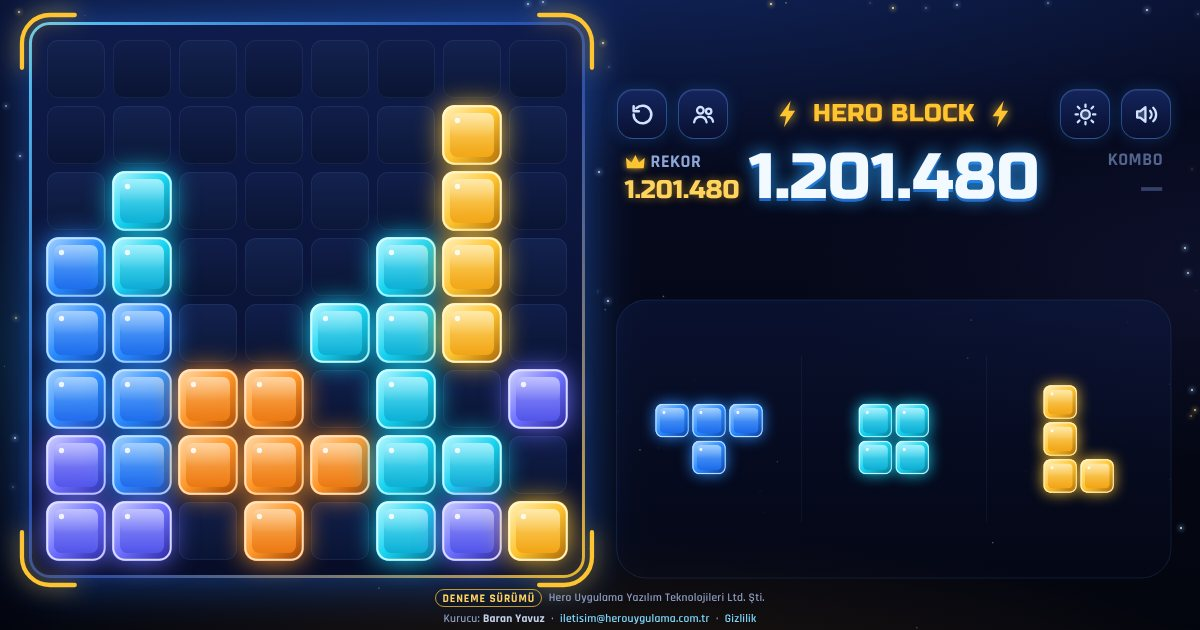
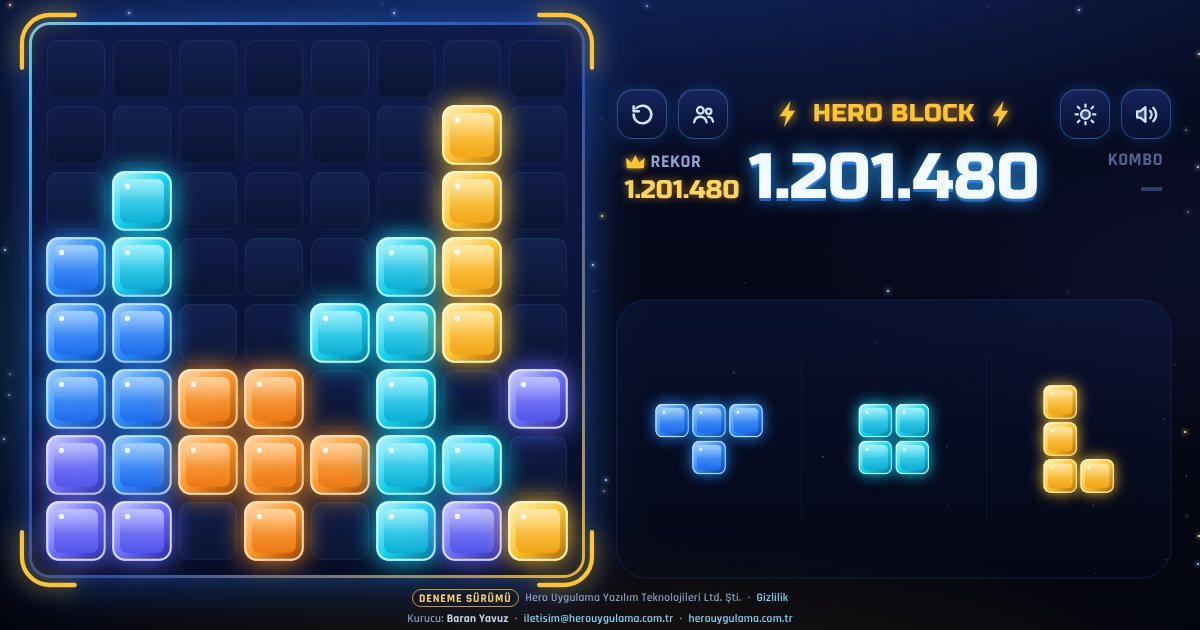
Şirket web sitesi bağlantısı: herouygulama.com.tr
E-postanın yanına herouygulama.com.tr bağlantısı eklendi (altlık, başlangıç
ve bitiş kartları, JavaScript'siz not, gizlilik politikası, README). Bağlantı
yeni sekmede açılır, oyun yerinde kalır. Altlıkta Gizlilik üst satıra taşındı;
satır sığmazsa (çok dar ekran ya da yazı tipi yüklenmeden) yazı orantılı küçülür.

Claude-Session: https://claude.ai/code/session_01PF9ZqAUkcrr7JnyAkv9ZQT

Changed region(s): [[0.3392, 0.9349, 0.6475, 0.9952], [0.9867, 0.6333, 1.0, 0.6635], [0.9867, 0.2413, 1.0, 0.2714]]

diff --git a/index.html b/index.html
@@ -20,7 +20,7 @@
 <meta property="og:image:height" content="630">
 <meta property="og:locale" content="tr_TR">
 <meta name="twitter:card" content="summary_large_image">
-<meta name="bk-build" content="fa5288e1e9">
+<meta name="bk-build" content="a99a8f48b3">
 <meta name="theme-color" content="#050817">
 <meta name="author" content="Baran Yavuz, Hero Uygulama Yazılım Teknolojileri Limited Şirketi">
 <meta name="color-scheme" content="dark">
@@ -656,7 +656,7 @@
         <li>Oyunu bağlantısından aç: <a href="https://herophysio.github.io/blok-kahramani/">https://herophysio.github.io/blok-kahramani/</a></li>
         <li>Bilgisayardaysan bu dosyayı Chrome, Safari ya da Edge ile aç.</li>
       </ol>
-      <p class="nojs-foot">Deneme sürümü · Hero Uygulama Yazılım Teknolojileri Limited Şirketi · Kurucu: Baran Yavuz · İletişim: <a href="mailto:iletisim@herouygulama.com.tr">iletisim@herouygulama.com.tr</a> · <a href="https://herophysio.github.io/blok-kahramani/gizlilik.html">Gizlilik Politikası</a></p>
+      <p class="nojs-foot">Deneme sürümü · Hero Uygulama Yazılım Teknolojileri Limited Şirketi · Kurucu: Baran Yavuz · İletişim: <a href="mailto:iletisim@herouygulama.com.tr">iletisim@herouygulama.com.tr</a> · Web: <a href="https://herouygulama.com.tr" target="_blank" rel="noopener">herouygulama.com.tr</a> · <a href="https://herophysio.github.io/blok-kahramani/gizlilik.html">Gizlilik Politikası</a></p>
     </div>
   </div>
 </noscript>
@@ -696,8 +696,8 @@
 <button id="notice" type="button" hidden></button>
 
 <footer id="credits">
-  <div class="cr-line"><span class="cr-beta">DENEME SÜRÜMÜ</span><span>Hero Uygulama Yazılım Teknolojileri Ltd. Şti.</span></div>
-  <div class="cr-line"><span>Kurucu: <b>Baran Yavuz</b></span><span aria-hidden="true">·</span><a href="mailto:iletisim@herouygulama.com.tr">iletisim@herouygulama.com.tr</a><span aria-hidden="true">·</span><a href="https://herophysio.github.io/blok-kahramani/gizlilik.html">Gizlilik</a></div>
+  <div class="cr-line"><span class="cr-beta">DENEME SÜRÜMÜ</span><span>Hero Uygulama Yazılım Teknolojileri Ltd. Şti.</span><span aria-hidden="true">·</span><a href="https://herophysio.github.io/blok-kahramani/gizlilik.html">Gizlilik</a></div>
+  <div class="cr-line"><span>Kurucu: <b>Baran Yavuz</b></span><span aria-hidden="true">·</span><a href="mailto:iletisim@herouygulama.com.tr">iletisim@herouygulama.com.tr</a><span aria-hidden="true">·</span><a href="https://herouygulama.com.tr" target="_blank" rel="noopener">herouygulama.com.tr</a></div>
 </footer>
 
 <button id="btnRestart" class="icon-btn" type="button" aria-label="Yeniden başlat" title="Yeniden başlat">
@@ -725,7 +725,7 @@
     </div>
     <button id="btnAgain" class="btn btn-primary" type="button">TEKRAR OYNA</button>
     <button id="btnDuelOver" class="btn btn-ghost btn-gap btn-ico" type="button"><svg viewBox="0 0 24 24" fill="none" stroke="currentColor" stroke-width="2.2" stroke-linecap="round" stroke-linejoin="round" aria-hidden="true"><circle cx="9" cy="8" r="3.2"/><path d="M3 19.5c.6-3.4 3-5.3 6-5.3s5.4 1.9 6 5.3"/><circle cx="17" cy="9" r="2.6"/><path d="M16.6 14.3c2.4.1 4 1.7 4.6 4.6"/></svg>İKİ KİŞİLİK OYNA</button>
-    <p class="card-foot">Deneme sürümü · Hero Uygulama Yazılım Teknolojileri Limited Şirketi<br>Kurucu: Baran Yavuz · <a href="mailto:iletisim@herouygulama.com.tr">iletisim@herouygulama.com.tr</a><br><a href="https://herophysio.github.io/blok-kahramani/gizlilik.html">Gizlilik Politikası</a></p>
+    <p class="card-foot">Deneme sürümü · Hero Uygulama Yazılım Teknolojileri Limited Şirketi<br>Kurucu: Baran Yavuz · <a href="mailto:iletisim@herouygulama.com.tr">iletisim@herouygulama.com.tr</a><br><a href="https://herouygulama.com.tr" target="_blank" rel="noopener">herouygulama.com.tr</a> · <a href="https://herophysio.github.io/blok-kahramani/gizlilik.html">Gizlilik Politikası</a></p>
   </div>
 </div>
 
@@ -736,7 +736,7 @@
     <p id="stSub" class="sub">Parçaları sürükle, satır ve sütunları patlat!</p>
     <button id="btnStart" class="btn btn-primary" type="button">OYNA</button>
     <button id="btnDuelStart" class="btn btn-ghost btn-gap btn-ico" type="button"><svg viewBox="0 0 24 24" fill="none" stroke="currentColor" stroke-width="2.2" stroke-linecap="round" stroke-linejoin="round" aria-hidden="true"><circle cx="9" cy="8" r="3.2"/><path d="M3 19.5c.6-3.4 3-5.3 6-5.3s5.4 1.9 6 5.3"/><circle cx="17" cy="9" r="2.6"/><path d="M16.6 14.3c2.4.1 4 1.7 4.6 4.6"/></svg>İKİ KİŞİLİK</button>
-    <p class="card-foot">Hero Uygulama Yazılım Teknolojileri Limited Şirketi<br>Kurucu: Baran Yavuz · <a href="mailto:iletisim@herouygulama.com.tr">iletisim@herouygulama.com.tr</a><br><a href="https://herophysio.github.io/blok-kahramani/gizlilik.html">Gizlilik Politikası</a></p>
+    <p class="card-foot">Hero Uygulama Yazılım Teknolojileri Limited Şirketi<br>Kurucu: Baran Yavuz · <a href="mailto:iletisim@herouygulama.com.tr">iletisim@herouygulama.com.tr</a><br><a href="https://herouygulama.com.tr" target="_blank" rel="noopener">herouygulama.com.tr</a> · <a href="https://herophysio.github.io/blok-kahramani/gizlilik.html">Gizlilik Politikası</a></p>
   </div>
 </div>
 
@@ -1191,6 +1191,24 @@
     out.h = Math.ceil((y1 - out.y) * d) / d;
   }
 
+  // Alt bilgi satırları tek satırda kalır: çok dar ekranda ya da yazı tipi henüz yüklenmemişken
+  // satır sığmıyorsa yazı orantılı küçülür (boşluklar em cinsinden, birlikte küçülür)
+  function fitCredits() {
+    credits.style.fontSize = '';
+    const st = getComputedStyle(credits);
+    const avail = credits.clientWidth - parseFloat(st.paddingLeft) - parseFloat(st.paddingRight);
+    let need = 0;
+    for (const line of credits.children) {
+      let lo = Infinity, hi = -Infinity;
+      for (const c of line.children) {
+        const r = c.getBoundingClientRect();
+        if (r.width > 0) { lo = Math.min(lo, r.left); hi = Math.max(hi, r.right); }
+      }
+      if (hi > lo) need = Math.max(need, hi - lo);
+    }
+    if (avail > 0 && need > avail) credits.style.fontSize = Math.max(6, (parseFloat(st.fontSize) * avail / need) * 0.97).toFixed(2) + 'px';
+  }
+
   let layoutKey = '';
   function layout() {
     const W = Math.max(1, window.innerWidth), H = Math.max(1, window.innerHeight);
@@ -1208,6 +1226,7 @@
     const ah = Math.max(120, H - ins.t - ins.b - 2 * m - FOOT_H);
     L.footY = Math.round(H - ins.b - FOOT_H - m * 0.35);
     credits.style.top = L.footY + 'px';
+    fitCredits();
     const outerK = 1 + 2 * FP;
     const Bcol = Math.min(aw / outerK, ah / (HUD_K + G1 + outerK + G2 + TRAY_K), MAX_B);
     const Bside = Math.min(ah / outerK, aw / (outerK + GX + PANEL_K), MAX_B);
@@ -3352,6 +3371,10 @@
     booted = true;
     setSound(soundOn, false);
     layout();
+    // Yazı tipleri yüklenince alt bilgi genişliği değişir: yeniden sığdır
+    if (document.fonts) {
+      try { document.fonts.ready.then(fitCredits); document.fonts.addEventListener('loadingdone', fitCredits); } catch (e) { /* desteklenmiyor */ }
+    }
     Sound.prerender(); // sesler açılışta bir kez hazırlanır (dokunuş gerekmez)
     // Kayıtlı oyun varsa kaldığı yerden devam, yoksa yeni oyun
     const restored = (data && data.v === 2 && load(data)) || load();

diff --git a/gizlilik.html b/gizlilik.html
@@ -225,7 +225,8 @@
     <p>6698 sayılı Kişisel Verilerin Korunması Kanunu (KVKK) kapsamında veri sorumlusu:</p>
     <p><b>Hero Uygulama Yazılım Teknolojileri Limited Şirketi</b><br>
     Kurucu: Baran Yavuz<br>
-    E-posta: <a href="mailto:iletisim@herouygulama.com.tr">iletisim@herouygulama.com.tr</a></p>
+    E-posta: <a href="mailto:iletisim@herouygulama.com.tr">iletisim@herouygulama.com.tr</a><br>
+    Web: <a href="https://herouygulama.com.tr" target="_blank" rel="noopener">herouygulama.com.tr</a></p>
   </section>
 
   <section class="card" aria-labelledby="s2">
@@ -319,7 +320,7 @@
   <footer>
     <a class="play" href="./">OYUNA DÖN</a>
     <div>Hero Uygulama Yazılım Teknolojileri Limited Şirketi</div>
-    <div>Kurucu: Baran Yavuz · <a href="mailto:iletisim@herouygulama.com.tr">iletisim@herouygulama.com.tr</a></div>
+    <div>Kurucu: Baran Yavuz · <a href="mailto:iletisim@herouygulama.com.tr">iletisim@herouygulama.com.tr</a> · <a href="https://herouygulama.com.tr" target="_blank" rel="noopener">herouygulama.com.tr</a></div>
   </footer>
 </div>
 </body>

diff --git a/sw.js b/sw.js
@@ -6,7 +6,7 @@
    - Yazı tipleri ve simgeler: önce kayıtlı kopya.
    - version.json hiç kaydedilmez: açık kalan oyun yeni sürümü buradan öğrenir. */
 'use strict';
-const VERSION = '6f6dd0c200';
+const VERSION = 'ac7ade1294';
 const CACHE = 'blok-kahramani-' + VERSION;
 const SHELL = ["./", "gizlilik.html", "manifest.webmanifest", "apple-touch-icon.png", "icon-192.png", "icon-512.png", "favicon-32.png", "fonts/rajdhani-600-latin-ext.woff2", "fonts/rajdhani-600-latin.woff2", "fonts/rajdhani-700-latin-ext.woff2", "fonts/rajdhani-700-latin.woff2", "fonts/russo-one-400-latin-ext.woff2", "fonts/russo-one-400-latin.woff2"];
 const INDEX = new URL('./', self.registration.scope).href;

diff --git a/README.md b/README.md
@@ -3,7 +3,7 @@
 > **Deneme sürümü**
 
 **Hero Uygulama Yazılım Teknolojileri Limited Şirketi** uygulamasıdır.
-Kurucu: Baran Yavuz · İletişim: [iletisim@herouygulama.com.tr](mailto:iletisim@herouygulama.com.tr)
+Kurucu: Baran Yavuz · İletişim: [iletisim@herouygulama.com.tr](mailto:iletisim@herouygulama.com.tr) · Web: [herouygulama.com.tr](https://herouygulama.com.tr)
 
 Neon temalı 8x8 blok bulmaca oyunu. Parçaları sürükle, dolan satır ve sütunları patlat, komboyu sürdür.
 
